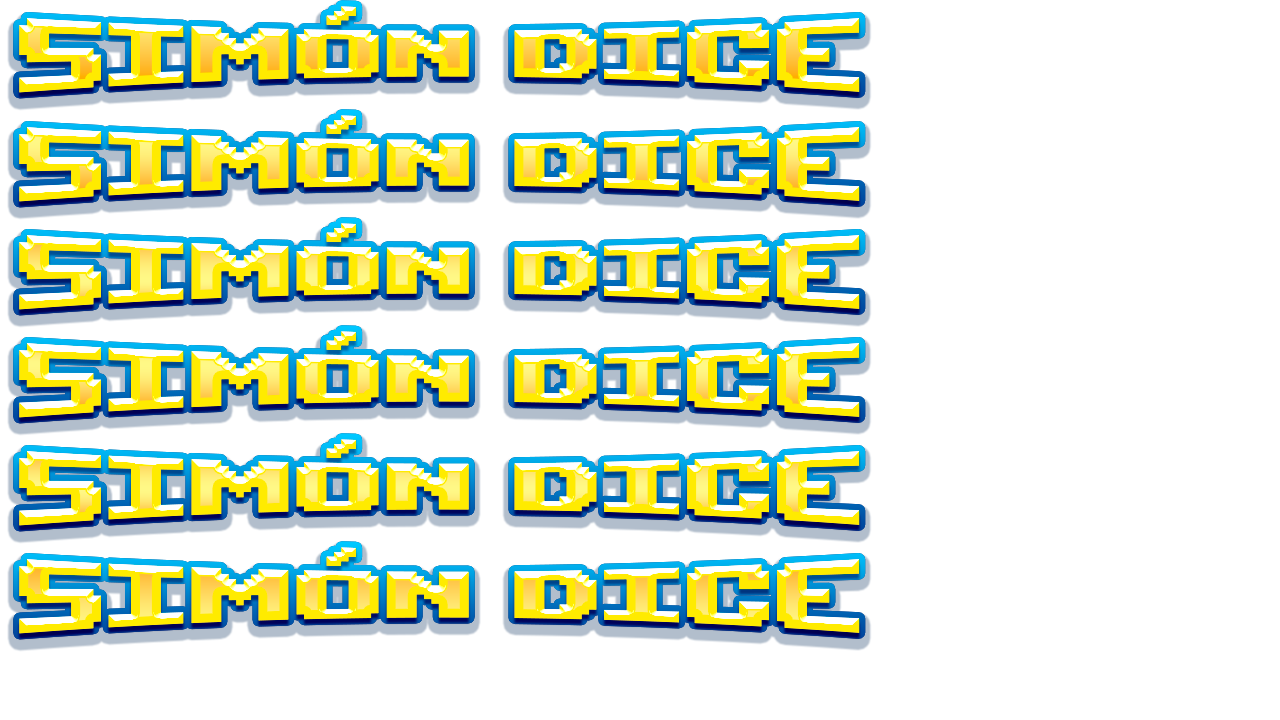
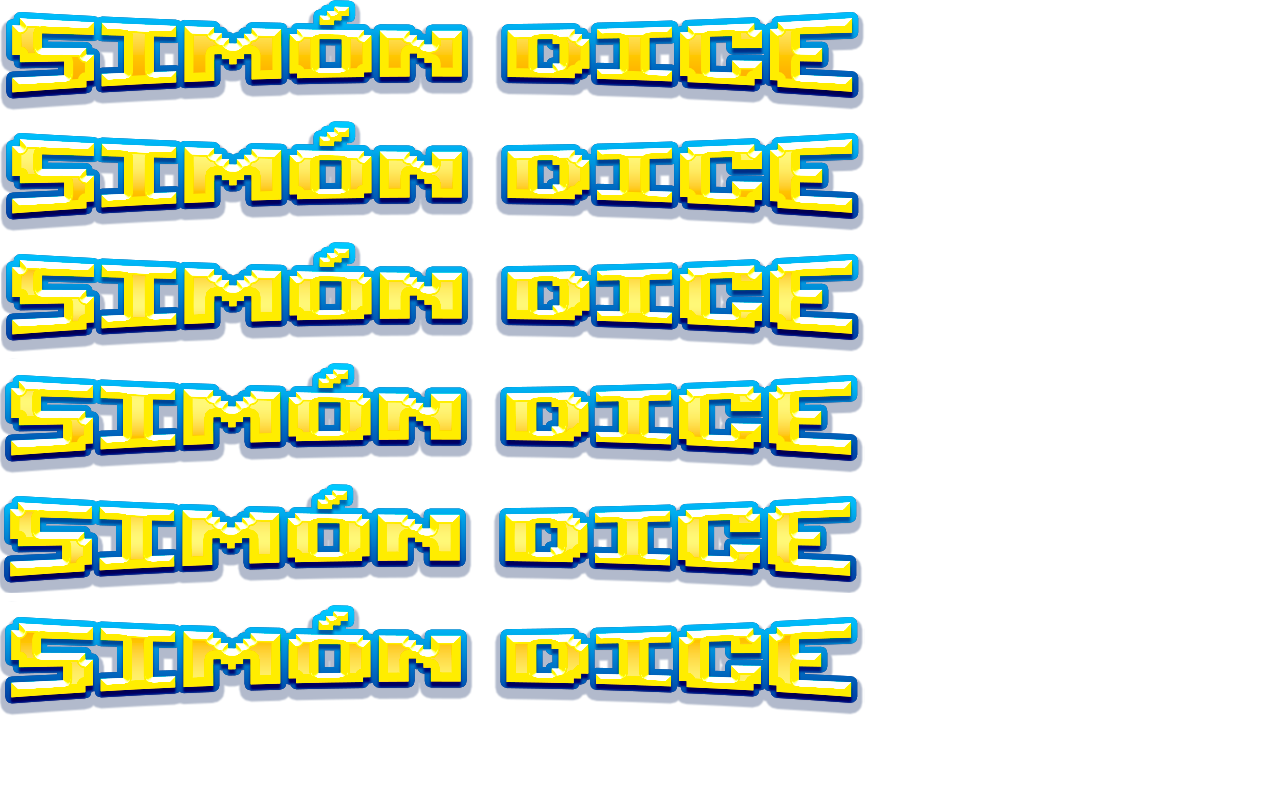
second commit

diff --git a/menu.c b/menu.c
@@ -7,7 +7,7 @@ ObjetoMenu obtenerObjetoMenu(){
     static ALLEGRO_BITMAP *botones;
     static ALLEGRO_BITMAP *play;
     static ALLEGRO_BITMAP *config;
-    static ALLEGRO_BITMAP *scored;
+    static ALLEGRO_BITMAP *records;
 
     int tamx_button = 503;
     int tamy_button = 89;
@@ -20,28 +20,65 @@ ObjetoMenu obtenerObjetoMenu(){
     objeto.logo.image = logo;
     objeto.logo.height = al_get_bitmap_height(logo);
     objeto.logo.width = al_get_bitmap_width(logo);
-    objeto.logo.scale = 0;
+    //objeto.logo.scale = 0;
     objeto.logo._angle = 0;
     objeto.logo.x = 0;
     objeto.logo.y = 0;
     objeto.logo.tamx = 865;
-    objeto.logo.tamy = 108;
+    objeto.logo.tamy = 121;
 
     //cargo de datos del play
     play = al_create_sub_bitmap(botones, 0, 0, tamx_button, (tamy_button*4)+(12*3));
-
+    //8 -> 50
+    //3 -> x
     objeto.play.img.image = play;
     objeto.play.img.height = al_get_bitmap_height(play);
     objeto.play.img.width = al_get_bitmap_width(play);
     objeto.play.img.tamx = tamx_button;
     objeto.play.img.tamy = tamy_button;
-    objeto.play.img.scale = 0;
+    objeto.play.img.scalex = tamx_button;
+    objeto.play.img.scaley = tamy_button;
     objeto.play.img.x = 0;
     objeto.play.img.y = 0;
-    objeto.play.img.posx = (1280/2) - (objeto.play.img.width/2);
+    objeto.play.img.posx = (1280/2) - (objeto.play.img.tamx/2);
     objeto.play.img.posy = 300;
     objeto.play.img._angle = 0;
-    objeto.play.press = false;
+    objeto.play.press = true;
+
+
+    //cargo de datos del scored
+    records = al_create_sub_bitmap(botones, (tamx_button+12)*2, 0, tamx_button, (tamy_button*4)+(12*3));
+
+    objeto.records.img.image = records;
+    objeto.records.img.height = al_get_bitmap_height(records);
+    objeto.records.img.width = al_get_bitmap_width(records);
+    objeto.records.img.tamx = tamx_button;
+    objeto.records.img.tamy = tamy_button;
+    objeto.records.img.scalex = tamx_button;
+    objeto.records.img.scaley = tamy_button;
+    objeto.records.img.x = 0;
+    objeto.records.img.y = 0;
+    objeto.records.img.posx = (1280/2) - (objeto.play.img.tamx/2);
+    objeto.records.img.posy = 310 + tamy_button;
+    objeto.records.img._angle = 0;
+    objeto.records.press = false;
+
+    //cargo de datos del config
+    config = al_create_sub_bitmap(botones, tamx_button+12, 0, tamx_button, (tamy_button*4)+(12*3));
+
+    objeto.configs.img.image = config;
+    objeto.configs.img.height = al_get_bitmap_height(config);
+    objeto.configs.img.width = al_get_bitmap_width(config);
+    objeto.configs.img.tamx = tamx_button;
+    objeto.configs.img.tamy = tamy_button;
+    objeto.configs.img.scalex = tamx_button;
+    objeto.configs.img.scaley = tamy_button;
+    objeto.configs.img.x = 0;
+    objeto.configs.img.y = 0;
+    objeto.configs.img.posx = (1280/2) - (objeto.play.img.tamx/2);
+    objeto.configs.img.posy = 320 + (tamy_button*2);
+    objeto.configs.img._angle = 0;
+    objeto.configs.press = false;
 
     return objeto;
 }
@@ -50,14 +87,98 @@ int menu(ObjetoMenu *objeto){
 
     ALLEGRO_BITMAP *logo = objeto->logo.image;
     ALLEGRO_BITMAP *play = objeto->play.img.image;
-    //ALLEGRO_BITMAP *play = objeto->play.img.image;
-    //ALLEGRO_BITMAP *records = objeto->records.img.image;
-    //ALLEGRO_BITMAP *conf = objeto->configs.img.image;
+    ALLEGRO_BITMAP *records = objeto->records.img.image;
+    ALLEGRO_BITMAP *conf = objeto->configs.img.image;
 
     al_convert_mask_to_alpha(logo, al_map_rgb(0, 0, 0));
     //al_draw_bitmap(logo, objeto->logo.x, objeto->logo.y, 0);
     al_draw_scaled_bitmap(logo, objeto->logo.x, objeto->logo.y, objeto->logo.tamx, objeto->logo.tamy, objeto->logo.width/4, 0, objeto->logo.width/2, objeto->logo.height/4, 0);
-    al_draw_scaled_bitmap(play, objeto->play.img.x, objeto->play.img.y, objeto->play.img.tamx, objeto->play.img.tamy, objeto->play.img.posx, objeto->play.img.posy, objeto->play.img.tamx, objeto->play.img.tamy, 0);
+    al_draw_scaled_bitmap(play, objeto->play.img.x, objeto->play.img.y, objeto->play.img.tamx, objeto->play.img.tamy, objeto->play.img.posx, objeto->play.img.posy, objeto->play.img.scalex, objeto->play.img.scaley, 0);
+    al_draw_scaled_bitmap(records, objeto->records.img.x, objeto->records.img.y, objeto->records.img.tamx, objeto->records.img.tamy, objeto->records.img.posx, objeto->records.img.posy, objeto->records.img.scalex, objeto->records.img.scaley, 0);
+    al_draw_scaled_bitmap(conf, objeto->configs.img.x, objeto->configs.img.y, objeto->configs.img.tamx, objeto->configs.img.tamy, objeto->configs.img.posx, objeto->configs.img.posy, objeto->configs.img.scalex, objeto->configs.img.scaley, 0);
 
     return 0;
+}
+
+
+int botonAnimacion(ObjetoMenu *objeto){
+
+
+    if(objeto->play.press){
+        objeto->play.img.scalex *= 1.05;
+        objeto->play.img.scaley *= 1.05;
+        if(objeto->play.img.scalex > objeto->play.img.tamx * 1.1){
+            objeto->play.img.scalex = objeto->play.img.tamx;
+            objeto->play.img.scaley = objeto->play.img.tamy;
+        }
+        objeto->play.img.posx = (1280/2) - (objeto->play.img.scalex/2);
+    }
+
+    if(objeto->records.press){
+        objeto->records.img.scalex *= 1.05;
+        objeto->records.img.scaley *= 1.05;
+        if(objeto->records.img.scalex > objeto->records.img.tamx * 1.1){
+            objeto->records.img.scalex = objeto->records.img.tamx;
+            objeto->records.img.scaley = objeto->records.img.tamy;
+        }
+        objeto->records.img.posx = (1280/2) - (objeto->records.img.scalex/2);
+    }
+
+    if(objeto->configs.press){
+        objeto->configs.img.scalex *= 1.05;
+        objeto->configs.img.scaley *= 1.05;
+        if(objeto->configs.img.scalex > objeto->configs.img.tamx * 1.1){
+            objeto->configs.img.scalex = objeto->configs.img.tamx;
+            objeto->configs.img.scaley = objeto->configs.img.tamy;
+        }
+        objeto->configs.img.posx = (1280/2) - (objeto->configs.img.scalex/2);
+    }
+
+}
+
+int formatearDatos(Timagen *imagen){
+
+    imagen->scalex = imagen->tamx;
+    imagen->scaley = imagen->tamy;
+    imagen->posx = (1280/2) - (imagen->tamx/2);
+
+}
+
+void cambioDeBotones(int tipo, ObjetoMenu *objeto){
+
+    if(tipo == ARRIBA){
+        if(objeto->play.press){
+            formatearDatos(&(objeto->play.img));
+            objeto->play.press = false;
+            objeto->configs.press = true;
+        }else{
+            if(objeto->records.press){
+                formatearDatos(&(objeto->records.img));
+                objeto->records.press = false;
+                objeto->play.press = true;
+            }else{
+                formatearDatos(&(objeto->configs.img));
+                objeto->configs.press = false;
+                objeto->records.press = true;
+            }
+        }
+    }else{
+        if(tipo == ABAJO){
+            if(objeto->play.press){
+                formatearDatos(&(objeto->play.img));
+                objeto->play.press = false;
+                objeto->records.press = true;
+            }else{
+                if(objeto->records.press){
+                    formatearDatos(&(objeto->records.img));
+                    objeto->records.press = false;
+                    objeto->configs.press = true;
+                }else{
+                    formatearDatos(&(objeto->configs.img));
+                    objeto->configs.press = false;
+                    objeto->play.press = true;
+                }
+            }
+        }
+    }
 }

diff --git a/game.c b/game.c
@@ -45,6 +45,7 @@ int start_game(){
     al_register_event_source(event_queue, al_get_keyboard_event_source());
     al_register_event_source(event_queue, al_get_display_event_source(display));
     al_register_event_source(event_queue, al_get_timer_event_source(timer));
+    al_register_event_source(event_queue, al_get_mouse_event_source());
 
     al_start_timer(timer);
 
@@ -65,29 +66,38 @@ int start_game(){
                     if(ventana == 0)
                         ventana = 1;
 
+                if(event.keyboard.keycode == ALLEGRO_KEY_DOWN)
+                    if(ventana == 0){
+                        cambioDeBotones(ABAJO, &miMenu);
+                    }
+
+                if(event.keyboard.keycode == ALLEGRO_KEY_UP)
+                    if(ventana == 0){
+                        cambioDeBotones(ARRIBA, &miMenu);
+                    }
 
             }
 
         }
+        /*
+        if(event.type == ALLEGRO_EVENT_MOUSE_AXES)
+            printf("x:%d y:%d\n",event.mouse.x, event.mouse.y);*/
 
         if(al_is_event_queue_empty(event_queue)){
             if(repetir){
                 al_clear_to_color(al_map_rgb(0, 0, 0));
-                //al_draw_bitmap(, 0, 0, 0);
                 if(errores == 0){
                     al_draw_scaled_bitmap(al_load_bitmap("fondo.png"), 0, 0, 1600, 900, 0, 0, WIDTH, HEIGHT, 0);
                     if(ventana == 0){
 
+                        //Logo brille
                         miMenu.logo.y += miMenu.logo.tamy;
 
                         if(miMenu.logo.y > miMenu.logo.tamy * 5)
                             miMenu.logo.y = 0;
+                        //Fin de logo brille
 
-                        if(false){
-                            miMenu.play.img.y += miMenu.play.img.tamy + 12;
-                            if(miMenu.play.img.y > miMenu.play.img.tamy * 4)
-                                miMenu.play.img.y = 0;
-                        }
+                        botonAnimacion(&miMenu);
 
                         errores = menu(&miMenu);
                         //button = create_button(1,1,1,1,1);

diff --git a/menu.h b/menu.h
@@ -2,6 +2,9 @@
 
 #include "main.h"
 
+#define ARRIBA  1
+#define ABAJO   2
+
 typedef struct _tbutton{
     Timagen img;
     bool press;
@@ -18,5 +21,8 @@ typedef struct _objetoMenu{
 
 ObjetoMenu obtenerObjetoMenu();
 int menu(ObjetoMenu *objeto);
+int botonAnimacion(ObjetoMenu *objeto);
+int formatearDatos(Timagen *imagen);
+void cambioDeBotones(int tipo, ObjetoMenu *objeto);
 
 #endif // MENU_SIMON_DICE

diff --git a/bloque.h b/bloque.h
@@ -1,0 +1,17 @@
+#ifndef BLOQUE_SIMON_DICE
+#define BLOQUE_SIMON_DICE
+
+#include "main.h"
+
+typedef struct _tbloque{
+
+    Timagen imagenPrincipal;
+    Timagen imagenLetra;
+    char letra;
+    int status;
+
+}Tbloque;
+
+void dibujarBloque(Tbloque *bloque);
+
+#endif // BLOQUE_SIMON_DICE

diff --git a/main.h b/main.h
@@ -19,7 +19,8 @@ typedef struct _timagen{
     int posy;
     float x;
     float y;
-    float scale;
+    float scalex;
+    float scaley;
     float _angle;
 }Timagen;
 

diff --git a/game.h b/game.h
@@ -2,7 +2,7 @@
 
 #include "main.h"
 
-#define FPS 6
+#define FPS 60
 #define WIDTH 1280
 #define HEIGHT 720
 

diff --git a/main.c b/main.c
@@ -5,7 +5,7 @@ int main(){
 
     cargar_allegro();
     start_game();
-
+    
     return 0;
 }
 
